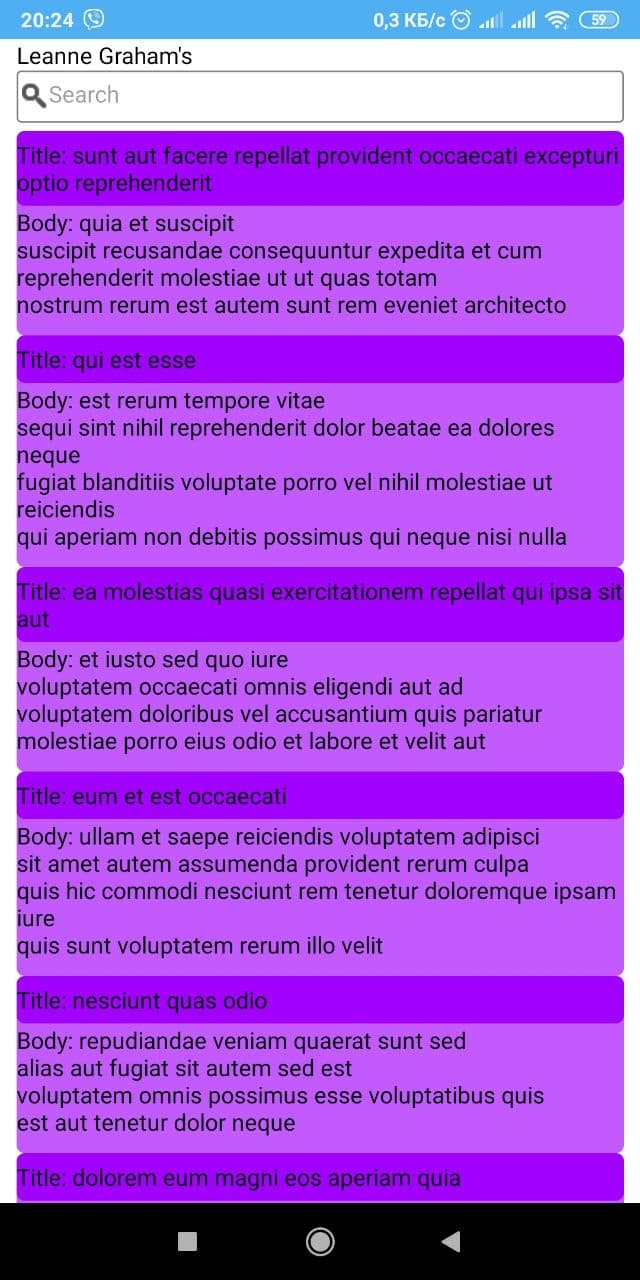
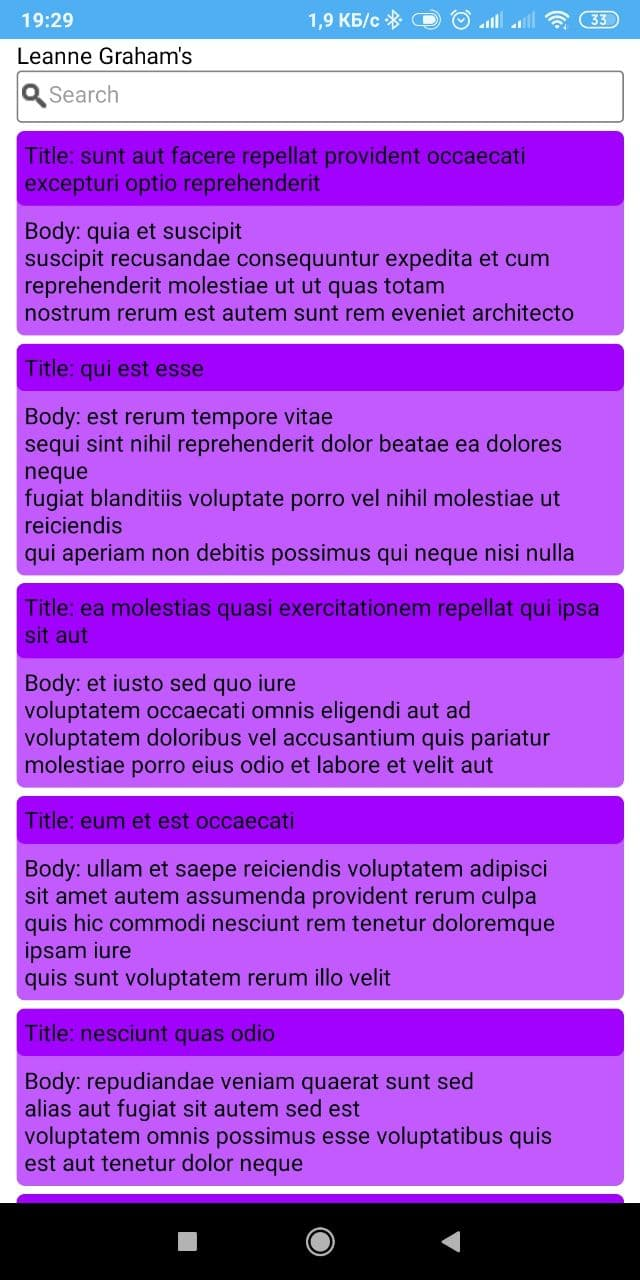
add screenshots

diff --git a/src/components/post/post.js b/src/components/post/post.js
@@ -5,18 +5,19 @@ const Post = ({post: {id, title, body}}) => {
     return (
         <View key={id}
               style={{
-                  paddingBottom: 10,
+                  marginBottom: 5,
                   backgroundColor: "rgb(195, 90, 255)",
                   borderRadius: 5}}>
             <Text
                 style={{
-                    paddingTop: 5,
-                    paddingBottom: 5,
+                    padding: 5,
                     backgroundColor: "rgb(162, 0, 255)",
                     borderRadius: 5}}>
                 Title: {title}
             </Text>
-            <Text>
+            <Text style={{
+                padding: 5
+            }}>
                 Body: {body}
             </Text>
         </View>
